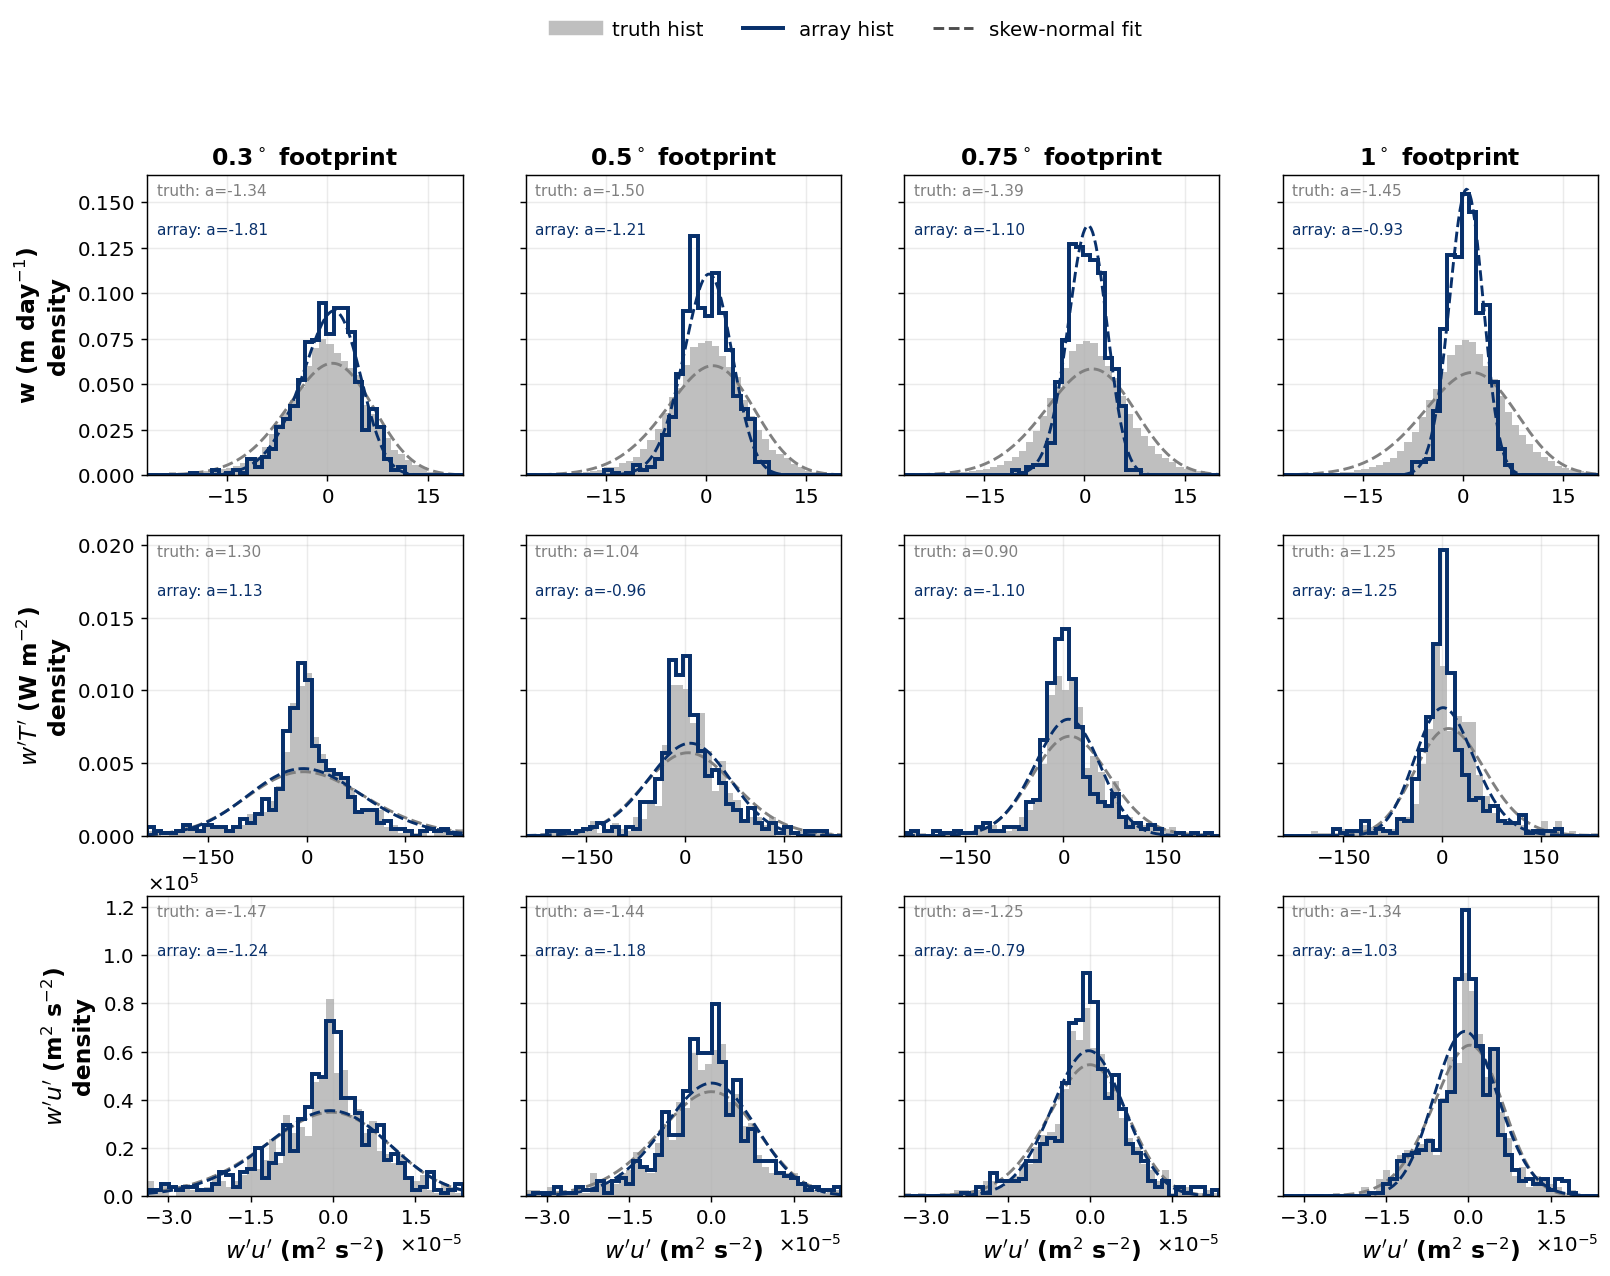
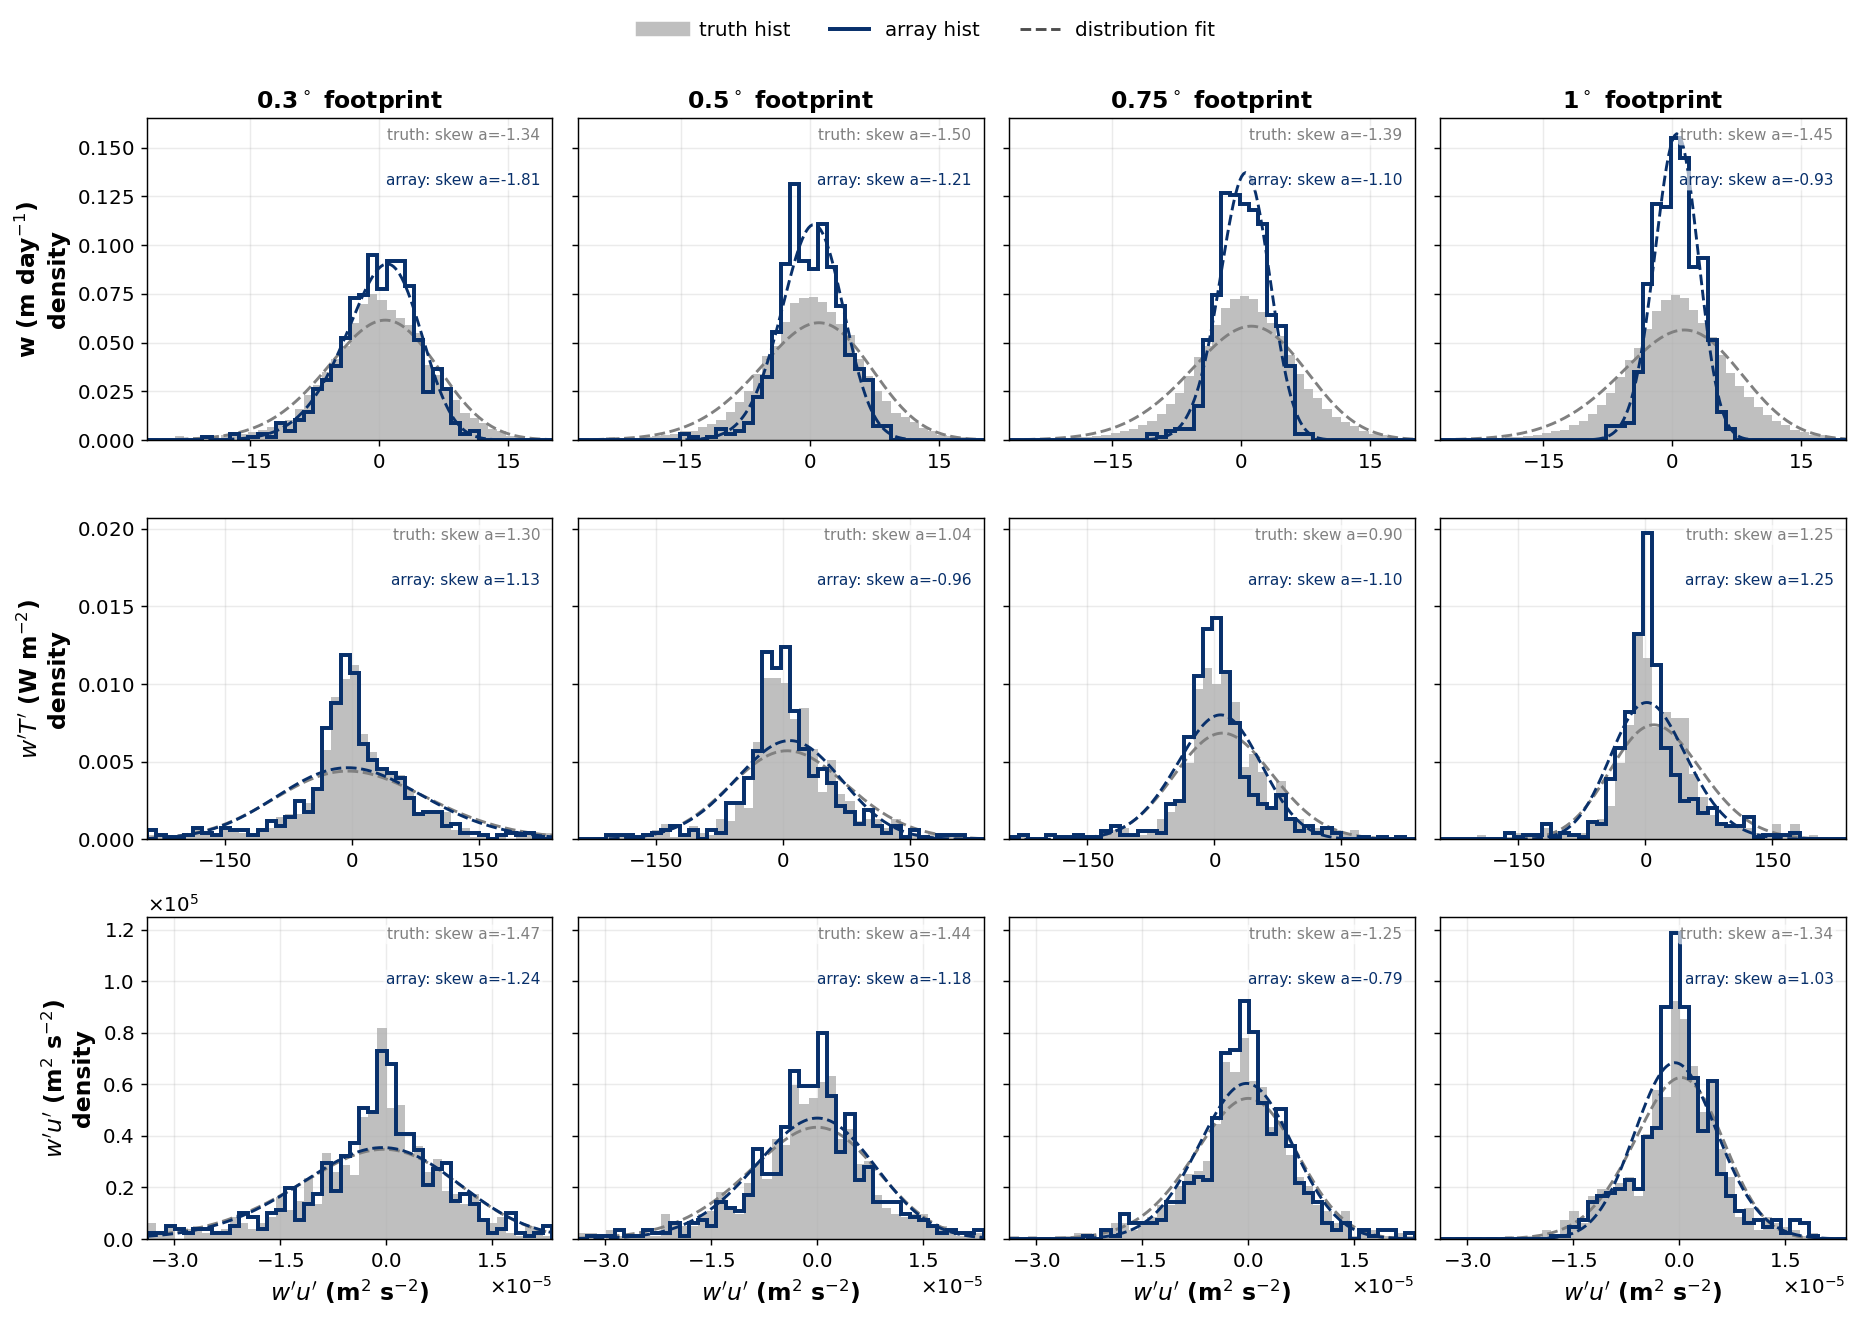
adding a fit for the bimodal distributions

diff --git a/sampling_dynamics/run_distributions.py b/sampling_dynamics/run_distributions.py
@@ -156,8 +156,35 @@ def _fit_samples_uv(diam, z):
             "$v'T'$ (W m$^{-2}$)": latflux('V', 'T', 'vT', C.HFLUX)}
 
 
-def _fit_grid(out, per_diam, fname):
-    """Render a skew-normal fit grid: rows = quantities, cols = diameters."""
+def _bimodal_fit(data, xx, n_iter=300, seed=0):
+    """2-component Gaussian mixture via a compact 1-D EM (no sklearn dependency).
+
+    Returns (mixture pdf on xx, peak separation |mu2 - mu1|).  Used for the u'/v'
+    rows, whose oscillatory (TIW/eddy) dynamics give a genuinely bimodal PDF that a
+    single skew-normal cannot represent.
+    """
+    from scipy.stats import norm
+    x = np.asarray(data)[np.isfinite(data)]
+    mu = np.percentile(x, [25.0, 75.0]).astype(float)   # init peaks either side of centre
+    var = np.full(2, x.var() / 2.0 + 1e-12)
+    w = np.array([0.5, 0.5])
+    for _ in range(n_iter):
+        p = np.stack([w[k] * norm.pdf(x, mu[k], np.sqrt(var[k])) for k in range(2)])
+        r = p / (p.sum(0) + 1e-300)                      # responsibilities (2, N)
+        nk = r.sum(1) + 1e-12
+        w = nk / nk.sum()
+        mu = (r * x).sum(1) / nk
+        var = (r * (x - mu[:, None]) ** 2).sum(1) / nk + 1e-12
+    pdf = sum(w[k] * norm.pdf(xx, mu[k], np.sqrt(var[k])) for k in range(2))
+    return pdf, abs(mu[1] - mu[0])
+
+
+def _fit_grid(out, per_diam, fname, bimodal_labels=frozenset()):
+    """Render a distribution-fit grid: rows = quantities, cols = diameters.
+
+    Rows in `bimodal_labels` get a 2-Gaussian mixture (report peak separation);
+    all others get a skew-normal (report the shape parameter a).
+    """
     labels = list(per_diam[C.DIAMETERS[0]])
     xlims = {}                                          # shared per-row x-limits
     for lab in labels:
@@ -170,6 +197,7 @@ def _fit_grid(out, per_diam, fname):
     for ri, lab in enumerate(labels):
         lo, hi = xlims[lab]
         bins = np.linspace(lo, hi, 45); xx = np.linspace(lo, hi, 200)
+        bimodal = lab in bimodal_labels
         for ci, d in enumerate(C.DIAMETERS):
             ax = axes[ri, ci]
             o, t = per_diam[d][lab]
@@ -177,10 +205,20 @@ def _fit_grid(out, per_diam, fname):
                 data = data[np.isfinite(data)]
                 kw = dict(alpha=0.5) if name == 'truth' else dict(histtype='step', lw=2.2)
                 ax.hist(data, bins=bins, density=True, color=color, **kw)
-                a, loc, sc = skewnorm.fit(data)
-                ax.plot(xx, skewnorm.pdf(xx, a, loc, sc), color=color, lw=1.6, ls='--')
-                ax.text(0.03, 0.97 - (0.13 if name == 'array' else 0), f'{name}: a={a:.2f}',
-                        transform=ax.transAxes, va='top', color=color, fontsize=8.5)
+                if bimodal:                              # 2-Gaussian mixture -> peak separation
+                    pdf, sep = _bimodal_fit(data, xx)
+                    note = f'{name}: $\\Delta$peak={sep:.2g}'
+                else:                                    # skew-normal -> shape parameter a
+                    a, loc, sc = skewnorm.fit(data)
+                    pdf = skewnorm.pdf(xx, a, loc, sc)
+                    note = f'{name}: skew a={a:.2f}'
+                ax.plot(xx, pdf, color=color, lw=1.6, ls='--')
+                # right-aligned in the (typically emptier) upper-right corner with a light
+                # background so it never sits on the data
+                ax.text(0.97, 0.97 - (0.14 if name == 'array' else 0), note,
+                        transform=ax.transAxes, va='top', ha='right', color=color,
+                        fontsize=8.5,
+                        bbox=dict(boxstyle='round,pad=0.15', fc='white', ec='none', alpha=0.65))
             ax.set_xlim(lo, hi)
             P.tidy_x(ax, 4)
             if ri == 0:
@@ -189,10 +227,15 @@ def _fit_grid(out, per_diam, fname):
                 ax.set_xlabel(lab)
             if ci == 0:
                 ax.set_ylabel(f'{lab}\ndensity')
+    # pack the axes up to the figure top, reserving only a thin strip for the legend so
+    # tall (many-row) grids don't leave a big empty band under the legend
+    fig_h = 3.4 * nr
+    top = 1.0 - 0.5 / fig_h
+    fig.tight_layout(rect=[0, 0, 1, top])
     fig.legend(handles=[Line2D([0], [0], color='0.5', lw=8, alpha=0.5, label='truth hist'),
                         Line2D([0], [0], color='#08306b', lw=2.2, label='array hist'),
-                        Line2D([0], [0], color='0.3', lw=1.6, ls='--', label='skew-normal fit')],
-               loc='upper center', ncol=3, frameon=False, bbox_to_anchor=(0.5, 1.01))
+                        Line2D([0], [0], color='0.3', lw=1.6, ls='--', label='distribution fit')],
+               loc='upper center', ncol=3, frameon=False, bbox_to_anchor=(0.5, 1.0))
     return P.finish(fig, f'{out}/{fname}')
 
 
@@ -203,9 +246,14 @@ def fig_fit(out, z=DEPTH):
 
 
 def fig_fit_uv(out, z=DEPTH):
-    """Skew-normal fits to u', v', u'v', u'T', v'T' (rows), one column per diameter."""
+    """Fits to u', v', u'v', u'T', v'T' (rows), one column per diameter.
+
+    The oscillatory u'/v' rows get a bimodal (2-Gaussian) fit; the skewed flux rows
+    keep the skew-normal.
+    """
     per_diam = {d: _fit_samples_uv(d, z) for d in C.DIAMETERS}
-    return _fit_grid(out, per_diam, 'fit_distributions_uv.png')
+    bimodal = {"$u'$ (m s$^{-1}$)", "$v'$ (m s$^{-1}$)"}
+    return _fit_grid(out, per_diam, 'fit_distributions_uv.png', bimodal_labels=bimodal)
 
 
 def main():
